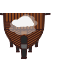
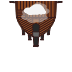
Batalla Naval 0.6.7

diff --git a/Proyecto/Batalla Naval/src/modelo/PanelJugador.java b/Proyecto/Batalla Naval/src/modelo/PanelJugador.java
@@ -137,6 +137,7 @@ public class PanelJugador extends JPanel{
                         && columna <= 13 && barcosMatriz[fila][columna + 1]
                                 .getContenidoCasilla() == 0) {
                     
+                    //Parte Trasera
                     barcosMatriz [fila][columna]
                             .setIcon(new ImageIcon(auxCasilla2
                         .getBarcoGrandeHA().getImage()
@@ -144,6 +145,7 @@ public class PanelJugador extends JPanel{
                    
                     barcosMatriz [fila][columna].setContenidoCasilla(3);
                     
+                    //Parte Delantera
                     barcosMatriz [fila][columna + 1]
                             .setIcon(new ImageIcon(auxCasilla2
                         .getBarcoGrandeHD().getImage()
@@ -162,13 +164,14 @@ public class PanelJugador extends JPanel{
                         && fila <= 13 && barcosMatriz[fila + 1][columna]
                                 .getContenidoCasilla() == 0) {
                     
+                    //Parte Trasera
                     barcosMatriz [fila][columna]
                             .setIcon(new ImageIcon(auxCasilla2
                         .getBarcoGrandeVA().getImage()
                         .getScaledInstance(42, 44, Image.SCALE_SMOOTH)));
                     
                     barcosMatriz [fila][columna].setContenidoCasilla(9);
-                    
+                    //Parte Delantera
                     barcosMatriz [fila + 1][columna]
                             .setIcon(new ImageIcon(auxCasilla2
                         .getBarcoGrandeVD().getImage()
@@ -184,7 +187,97 @@ public class PanelJugador extends JPanel{
             }                        
             
         }
-                        
+        
+        //Ubicar Barcos Muy Grandes (Tamaño 3)
+        for (int i = 0; i < 2; i++) {
+            
+            direccion = direccion1.nextInt(2);
+            fila = fila1.nextInt(15);
+            columna = columna1.nextInt(15);
+            
+            //Dirección Horizontal
+            if (direccion == 0) {
+                
+                if (barcosMatriz[fila][columna].getContenidoCasilla() == 0 
+                        && columna <= 12 && barcosMatriz[fila][columna + 1]
+                                .getContenidoCasilla() == 0 
+                        && barcosMatriz[fila][columna + 2]
+                                .getContenidoCasilla() == 0 ) {
+                    
+                    //Parte Trasera
+                    barcosMatriz [fila][columna]
+                            .setIcon(new ImageIcon(auxCasilla2
+                        .getBarcoMuyGrandeHA().getImage()
+                        .getScaledInstance(42, 44, Image.SCALE_SMOOTH)));
+                   
+                    barcosMatriz [fila][columna].setContenidoCasilla(15);
+                    
+                    //Parte Media
+                    barcosMatriz [fila][columna + 1]
+                            .setIcon(new ImageIcon(auxCasilla2
+                        .getBarcoMuyGrandeHC().getImage()
+                        .getScaledInstance(42, 44, Image.SCALE_SMOOTH)));
+                    
+                    barcosMatriz [fila][columna + 1].setContenidoCasilla(16);
+                    
+                    //Parte Delantera
+                    barcosMatriz [fila][columna + 2]
+                            .setIcon(new ImageIcon(auxCasilla2
+                        .getBarcoMuyGrandeHD().getImage()
+                        .getScaledInstance(42, 44, Image.SCALE_SMOOTH)));
+                    
+                    barcosMatriz [fila][columna + 2].setContenidoCasilla(17);
+                    
+                    
+                } else {
+                    i = i - 1;
+                }
+                               
+            } else {
+                //Dirección Vertical
+                if (barcosMatriz[fila][columna].getContenidoCasilla() == 0 
+                        && fila <= 12 && barcosMatriz[fila + 1][columna]
+                                .getContenidoCasilla() == 0 
+                        && barcosMatriz[fila + 2][columna]
+                                .getContenidoCasilla() == 0) {
+                    
+                    //Parte Trasera
+                    barcosMatriz [fila][columna]
+                            .setIcon(new ImageIcon(auxCasilla2
+                        .getBarcoMuyGrandeVA().getImage()
+                        .getScaledInstance(42, 44, Image.SCALE_SMOOTH)));
+                   
+                    barcosMatriz [fila][columna].setContenidoCasilla(24);
+                    
+                    //Parte Media
+                    barcosMatriz [fila + 1][columna]
+                            .setIcon(new ImageIcon(auxCasilla2
+                        .getBarcoMuyGrandeVC().getImage()
+                        .getScaledInstance(42, 44, Image.SCALE_SMOOTH)));
+                    
+                    barcosMatriz [fila + 1][columna].setContenidoCasilla(25);
+                    
+                    //Parte Delantera
+                    barcosMatriz [fila + 2][columna]
+                            .setIcon(new ImageIcon(auxCasilla2
+                        .getBarcoMuyGrandeVD().getImage()
+                        .getScaledInstance(42, 44, Image.SCALE_SMOOTH)));
+                    
+                    barcosMatriz [fila + 2][columna].setContenidoCasilla(26);
+                    
+                    
+                } else {
+                    i = i - 1;
+                }
+                
+            }   
+            
+        }
+              
+        
+        
+        
+        
         agregarMatriz();
         
     }
@@ -211,15 +304,16 @@ public class PanelJugador extends JPanel{
                 if (e.getClickCount() == 2) {
                     //Dispararle a una casilla con agua
                     if (barcosMatriz[fila][columna].getContenidoCasilla() == 0){                        
+                       
                         barcosMatriz[fila][columna].cambiarIcono(0, 1);
-                        //cambiarIcono(0); 
-                        System.out.println("Soy La Casilla Número: " + barcosMatriz[fila][columna].getNumeroCasilla());
+                       
+                       
                     }
                     //Dispararle a una casilla con barco pequeño
                     if (barcosMatriz[fila][columna].getContenidoCasilla() == 1){
                         
                         barcosMatriz[fila][columna].cambiarIcono(1, 1);              
-                        System.out.println("Soy La Casilla Número: " + barcosMatriz[fila][columna].getNumeroCasilla());
+                       
                         
                     }
                     //Dispararle a una casilla con la parte trasera barco grande horizontal
@@ -229,7 +323,7 @@ public class PanelJugador extends JPanel{
                             
                             barcosMatriz[fila][columna].cambiarIcono(5, 1);  
                             barcosMatriz[fila][columna + 1].cambiarIcono(6, 2);
-                            System.out.println("Soy La Casilla Número: " + barcosMatriz[fila][columna].getNumeroCasilla());
+                           
                         } else {
                             barcosMatriz[fila][columna].cambiarIcono(3, 1);
                         }                        
@@ -241,11 +335,39 @@ public class PanelJugador extends JPanel{
                             
                             barcosMatriz[fila][columna].cambiarIcono(6, 1);  
                             barcosMatriz[fila][columna - 1].cambiarIcono(5, 2);
-                            System.out.println("Soy La Casilla Número: " + barcosMatriz[fila][columna].getNumeroCasilla());
+                            
                         } else {
                             barcosMatriz[fila][columna].cambiarIcono(4, 1);
                         }                        
                     }
+                    
+    
+                    //Dispararle a una casilla con la parte trasera barco grande vertical
+                    if (barcosMatriz[fila][columna].getContenidoCasilla() == 9){
+                        
+                        if (barcosMatriz[fila + 1][columna].getContenidoCasilla() == 12) {
+                            
+                            barcosMatriz[fila][columna].cambiarIcono(11, 1);  
+                            barcosMatriz[fila + 1][columna].cambiarIcono(12, 2);
+                           
+                        } else {
+                            barcosMatriz[fila][columna].cambiarIcono(9, 1);
+                        }                        
+                    }
+                    //Dispararle a una casilla con la parte delantera barco grande vertical
+                    if (barcosMatriz[fila][columna].getContenidoCasilla() == 10){
+                        
+                        if (barcosMatriz[fila - 1][columna].getContenidoCasilla() == 11) {
+                            
+                            barcosMatriz[fila][columna].cambiarIcono(12, 1);  
+                            barcosMatriz[fila - 1][columna].cambiarIcono(11, 2);
+                            
+                        } else {
+                            barcosMatriz[fila][columna].cambiarIcono(10, 1);
+                        }                        
+                    }
+                    
+                    
                     
                 }
             }

diff --git a/Proyecto/Batalla Naval/src/modelo/Casilla.java b/Proyecto/Batalla Naval/src/modelo/Casilla.java
@@ -267,7 +267,7 @@ public class Casilla extends JButton{
             explosion.play();
             
         }
-        //Disparo a una casilla con parte trasera barco grande 
+        //Disparo a una casilla con parte trasera barco grande horizontal
         if (contenido == 3) {
             this.setIcon(new ImageIcon(barcoGrandeHAG.getImage()
                     .getScaledInstance(42, 44, Image.SCALE_SMOOTH))); 
@@ -277,7 +277,7 @@ public class Casilla extends JButton{
             disparoAcertado.play();
             
         }
-        //Disparo a una casilla con parte trasera golpeada barco grande 
+        //Disparo a una casilla con parte trasera golpeada barco grande horizontal
         if (contenido == 5) {
             this.setIcon(new ImageIcon(barcoGrandeHAD.getImage()
                     .getScaledInstance(42, 44, Image.SCALE_SMOOTH))); 
@@ -295,7 +295,7 @@ public class Casilla extends JButton{
             explosion.play();
             
         }
-         //Disparo a una casilla con parte delantera barco grande 
+         //Disparo a una casilla con parte delantera barco grande horizontal
         if (contenido == 4) {
             this.setIcon(new ImageIcon(barcoGrandeHDG.getImage()
                     .getScaledInstance(42, 44, Image.SCALE_SMOOTH))); 
@@ -305,11 +305,69 @@ public class Casilla extends JButton{
             disparoAcertado.play();
             
         }
-        //Disparo a una casilla con parte Delantera golpeada barco grande 
+        //Disparo a una casilla con parte Delantera golpeada barco grande horizontal
         if (contenido == 6) {
             this.setIcon(new ImageIcon(barcoGrandeHDD.getImage()
                     .getScaledInstance(42, 44, Image.SCALE_SMOOTH))); 
             this.setContenidoCasilla(8);
+            
+            try {
+            Thread.sleep(2000);
+            } catch (InterruptedException ex) {
+            Logger.getLogger(Casilla.class.getName())
+                    .log(Level.SEVERE, null, ex);
+            }
+            
+            explosion = java.applet.Applet.newAudioClip(getClass()
+                    .getResource("/controlador/Explosion.wav"));
+            explosion.play();
+            
+        }
+        
+        //copia
+        //Disparo a una casilla con parte trasera barco grande vertical
+        if (contenido == 9) {
+            this.setIcon(new ImageIcon(barcoGrandeVAG.getImage()
+                    .getScaledInstance(42, 44, Image.SCALE_SMOOTH))); 
+            this.setContenidoCasilla(11);
+            disparoAcertado = java.applet.Applet.newAudioClip(getClass()
+                    .getResource("/controlador/GolpeMetalico.wav"));
+            disparoAcertado.play();
+            
+        }
+        //Disparo a una casilla con parte trasera golpeada barco grande vertical
+        if (contenido == 11) {
+            this.setIcon(new ImageIcon(barcoGrandeVAD.getImage()
+                    .getScaledInstance(42, 44, Image.SCALE_SMOOTH))); 
+            this.setContenidoCasilla(13);
+            
+            try {
+            Thread.sleep(2000);
+            } catch (InterruptedException ex) {
+            Logger.getLogger(Casilla.class.getName())
+                    .log(Level.SEVERE, null, ex);
+            }
+            
+            explosion = java.applet.Applet.newAudioClip(getClass()
+                    .getResource("/controlador/Explosion.wav"));
+            explosion.play();
+            
+        }
+         //Disparo a una casilla con parte delantera barco grande vertical
+        if (contenido == 10) {
+            this.setIcon(new ImageIcon(barcoGrandeVDG.getImage()
+                    .getScaledInstance(42, 44, Image.SCALE_SMOOTH))); 
+            this.setContenidoCasilla(12);
+            disparoAcertado = java.applet.Applet.newAudioClip(getClass()
+                    .getResource("/controlador/GolpeMetalico.wav"));
+            disparoAcertado.play();
+            
+        }
+        //Disparo a una casilla con parte Delantera golpeada barco grande vertical
+        if (contenido == 12) {
+            this.setIcon(new ImageIcon(barcoGrandeVDD.getImage()
+                    .getScaledInstance(42, 44, Image.SCALE_SMOOTH))); 
+            this.setContenidoCasilla(14);
             
             try {
             Thread.sleep(2000);
